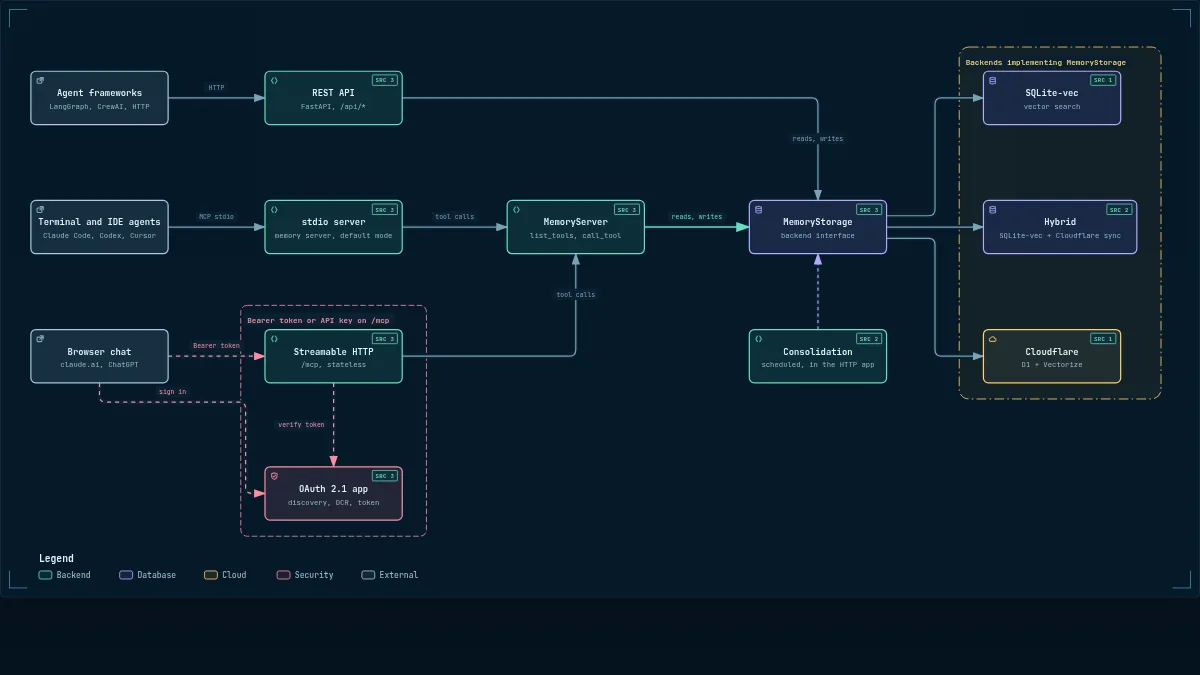
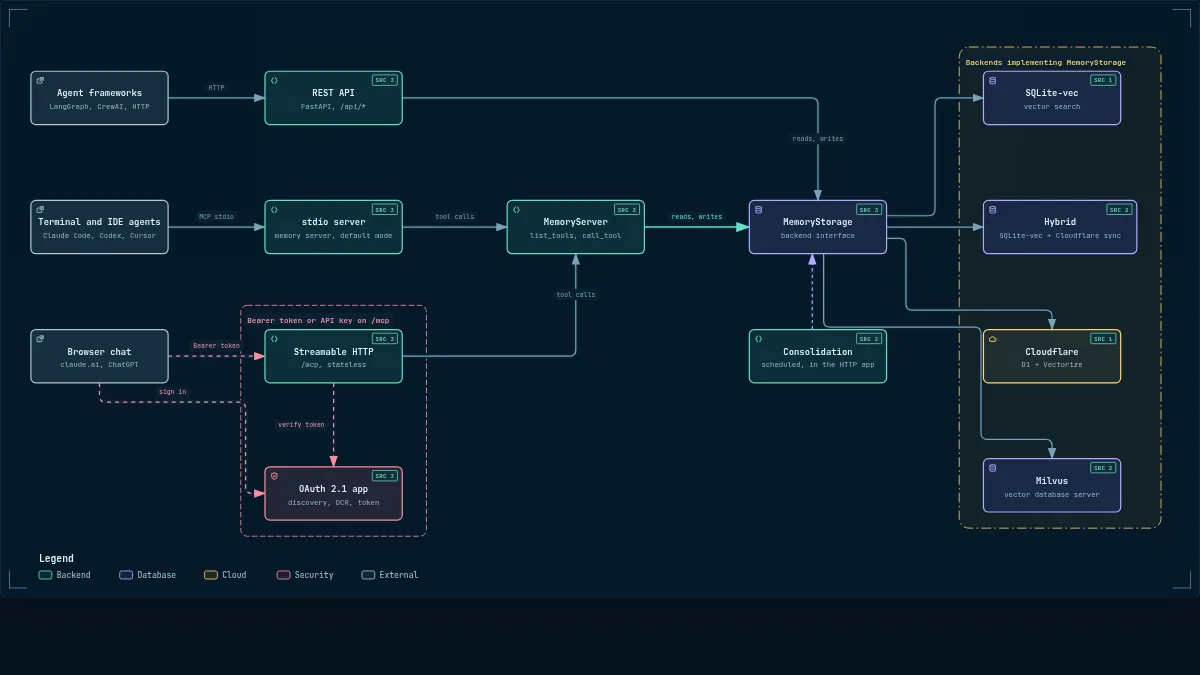
feat(site): bring the architecture diagram up to the current code and add Milvus
The diagram was pinned to 48d7d7f5 (2026-10-11). Its source links now point at
f53e3c74: nineteen ranges moved with the code, five were re-traced by hand
(POST /memories, run_streamable_http, the /mcp auth check, the OAuth sub-app and
the tool dispatch, which moved into helpers). Milvus, already a MemoryStorage
backend selected by the factory and named in the Storage card, gets its own box.
The landing page thumbnail is regenerated.

diff --git a/site/architecture/index.html b/site/architecture/index.html
@@ -4982,7 +4982,7 @@ OTHER DEALINGS IN THE FONT SOFTWARE.
       </div>
     </div>
 
-    <script id="archify-source-evidence-data" type="application/json">{"schemaVersion":1,"verified":true,"repository":{"url":"https://github.com/doobidoo/mcp-memory-service","revision":"48d7d7f595bc28834b2fc096aa2c8f4895ebca89","shortRevision":"48d7d7f","label":"doobidoo/mcp-memory-service","href":"https://github.com/doobidoo/mcp-memory-service/tree/48d7d7f595bc28834b2fc096aa2c8f4895ebca89"},"referenceCount":24,"nodes":{"rest":[{"path":"src/mcp_memory_service/web/app.py","line":356,"endLine":360,"label":"API routers","href":"https://github.com/doobidoo/mcp-memory-service/blob/48d7d7f595bc28834b2fc096aa2c8f4895ebca89/src/mcp_memory_service/web/app.py#L356-L360"},{"path":"src/mcp_memory_service/web/api/memories.py","line":142,"endLine":147,"label":"POST /memories","href":"https://github.com/doobidoo/mcp-memory-service/blob/48d7d7f595bc28834b2fc096aa2c8f4895ebca89/src/mcp_memory_service/web/api/memories.py#L142-L147"},{"path":"src/mcp_memory_service/web/oauth/middleware.py","line":449,"endLine":460,"label":"access checks","href":"https://github.com/doobidoo/mcp-memory-service/blob/48d7d7f595bc28834b2fc096aa2c8f4895ebca89/src/mcp_memory_service/web/oauth/middleware.py#L449-L460"}],"stdio":[{"path":"src/mcp_memory_service/utils/startup_orchestrator.py","line":296,"endLine":298,"label":"run_stdio","href":"https://github.com/doobidoo/mcp-memory-service/blob/48d7d7f595bc28834b2fc096aa2c8f4895ebca89/src/mcp_memory_service/utils/startup_orchestrator.py#L296-L298"},{"path":"src/mcp_memory_service/server_impl.py","line":3068,"endLine":3079,"label":"mode switch","href":"https://github.com/doobidoo/mcp-memory-service/blob/48d7d7f595bc28834b2fc096aa2c8f4895ebca89/src/mcp_memory_service/server_impl.py#L3068-L3079"},{"path":"pyproject.toml","line":157,"endLine":160,"label":"entry points","href":"https://github.com/doobidoo/mcp-memory-service/blob/48d7d7f595bc28834b2fc096aa2c8f4895ebca89/pyproject.toml#L157-L160"}],"mcp-http":[{"path":"src/mcp_memory_service/utils/startup_orchestrator.py","line":416,"endLine":440,"label":"run_streamable_http","href":"https://github.com/doobidoo/mcp-memory-service/blob/48d7d7f595bc28834b2fc096aa2c8f4895ebca89/src/mcp_memory_service/utils/startup_orchestrator.py#L416-L440"},{"path":"src/mcp_memory_service/utils/startup_orchestrator.py","line":523,"endLine":540,"label":"auth on /mcp","href":"https://github.com/doobidoo/mcp-memory-service/blob/48d7d7f595bc28834b2fc096aa2c8f4895ebca89/src/mcp_memory_service/utils/startup_orchestrator.py#L523-L540"},{"path":"src/mcp_memory_service/server_impl.py","line":1458,"endLine":1484,"label":"local_only_tools","href":"https://github.com/doobidoo/mcp-memory-service/blob/48d7d7f595bc28834b2fc096aa2c8f4895ebca89/src/mcp_memory_service/server_impl.py#L1458-L1484"}],"oauth":[{"path":"src/mcp_memory_service/utils/startup_orchestrator.py","line":444,"endLine":452,"label":"OAuth sub-app","href":"https://github.com/doobidoo/mcp-memory-service/blob/48d7d7f595bc28834b2fc096aa2c8f4895ebca89/src/mcp_memory_service/utils/startup_orchestrator.py#L444-L452"},{"path":"src/mcp_memory_service/web/oauth/authorization.py","line":343,"endLine":343,"label":"/authorize","href":"https://github.com/doobidoo/mcp-memory-service/blob/48d7d7f595bc28834b2fc096aa2c8f4895ebca89/src/mcp_memory_service/web/oauth/authorization.py#L343"},{"path":"src/mcp_memory_service/web/oauth/authorization.py","line":920,"endLine":920,"label":"/token","href":"https://github.com/doobidoo/mcp-memory-service/blob/48d7d7f595bc28834b2fc096aa2c8f4895ebca89/src/mcp_memory_service/web/oauth/authorization.py#L920"}],"core":[{"path":"src/mcp_memory_service/server_impl.py","line":243,"endLine":243,"label":"MemoryServer","href":"https://github.com/doobidoo/mcp-memory-service/blob/48d7d7f595bc28834b2fc096aa2c8f4895ebca89/src/mcp_memory_service/server_impl.py#L243"},{"path":"src/mcp_memory_service/server_impl.py","line":1486,"endLine":1520,"label":"tool dispatch","href":"https://github.com/doobidoo/mcp-memory-service/blob/48d7d7f595bc28834b2fc096aa2c8f4895ebca89/src/mcp_memory_service/server_impl.py#L1486-L1520"},{"path":"src/mcp_memory_service/tools/routing.py","line":69,"endLine":80,"label":"routing table","href":"https://github.com/doobidoo/mcp-memory-service/blob/48d7d7f595bc28834b2fc096aa2c8f4895ebca89/src/mcp_memory_service/tools/routing.py#L69-L80"}],"storage-api":[{"path":"src/mcp_memory_service/storage/base.py","line":40,"endLine":40,"label":"MemoryStorage","href":"https://github.com/doobidoo/mcp-memory-service/blob/48d7d7f595bc28834b2fc096aa2c8f4895ebca89/src/mcp_memory_service/storage/base.py#L40"},{"path":"src/mcp_memory_service/storage/factory.py","line":55,"endLine":75,"label":"backend factory","href":"https://github.com/doobidoo/mcp-memory-service/blob/48d7d7f595bc28834b2fc096aa2c8f4895ebca89/src/mcp_memory_service/storage/factory.py#L55-L75"},{"path":"src/mcp_memory_service/web/dependencies.py","line":38,"endLine":42,"label":"get_storage","href":"https://github.com/doobidoo/mcp-memory-service/blob/48d7d7f595bc28834b2fc096aa2c8f4895ebca89/src/mcp_memory_service/web/dependencies.py#L38-L42"}],"consolidation":[{"path":"src/mcp_memory_service/web/app.py","line":190,"endLine":200,"label":"scheduler setup","href":"https://github.com/doobidoo/mcp-memory-service/blob/48d7d7f595bc28834b2fc096aa2c8f4895ebca89/src/mcp_memory_service/web/app.py#L190-L200"},{"path":"src/mcp_memory_service/consolidation/scheduler.py","line":62,"endLine":62,"label":"ConsolidationScheduler","href":"https://github.com/doobidoo/mcp-memory-service/blob/48d7d7f595bc28834b2fc096aa2c8f4895ebca89/src/mcp_memory_service/consolidation/scheduler.py#L62"}],"sqlite":[{"path":"src/mcp_memory_service/storage/sqlite_vec.py","line":57,"endLine":57,"label":"SqliteVecMemoryStorage","href":"https://github.com/doobidoo/mcp-memory-service/blob/48d7d7f595bc28834b2fc096aa2c8f4895ebca89/src/mcp_memory_service/storage/sqlite_vec.py#L57"}],"hybrid":[{"path":"src/mcp_memory_service/storage/hybrid.py","line":1031,"endLine":1040,"label":"HybridMemoryStorage","href":"https://github.com/doobidoo/mcp-memory-service/blob/48d7d7f595bc28834b2fc096aa2c8f4895ebca89/src/mcp_memory_service/storage/hybrid.py#L1031-L1040"},{"path":"src/mcp_memory_service/storage/hybrid.py","line":248,"endLine":249,"label":"primary, secondary","href":"https://github.com/doobidoo/mcp-memory-service/blob/48d7d7f595bc28834b2fc096aa2c8f4895ebca89/src/mcp_memory_service/storage/hybrid.py#L248-L249"}],"cloudflare":[{"path":"src/mcp_memory_service/storage/cloudflare.py","line":163,"endLine":163,"label":"CloudflareStorage","href":"https://github.com/doobidoo/mcp-memory-service/blob/48d7d7f595bc28834b2fc096aa2c8f4895ebca89/src/mcp_memory_service/storage/cloudflare.py#L163"}]}}</script>
+    <script id="archify-source-evidence-data" type="application/json">{"schemaVersion":1,"verified":true,"repository":{"url":"https://github.com/doobidoo/mcp-memory-service","revision":"f53e3c7483d41674b950960cc8907c34b7717668","shortRevision":"f53e3c7","label":"doobidoo/mcp-memory-service","href":"https://github.com/doobidoo/mcp-memory-service/tree/f53e3c7483d41674b950960cc8907c34b7717668"},"referenceCount":26,"nodes":{"rest":[{"path":"src/mcp_memory_service/web/app.py","line":403,"endLine":407,"label":"API routers","href":"https://github.com/doobidoo/mcp-memory-service/blob/f53e3c7483d41674b950960cc8907c34b7717668/src/mcp_memory_service/web/app.py#L403-L407"},{"path":"src/mcp_memory_service/web/api/memories.py","line":219,"endLine":224,"label":"POST /memories","href":"https://github.com/doobidoo/mcp-memory-service/blob/f53e3c7483d41674b950960cc8907c34b7717668/src/mcp_memory_service/web/api/memories.py#L219-L224"},{"path":"src/mcp_memory_service/web/oauth/middleware.py","line":624,"endLine":635,"label":"access checks","href":"https://github.com/doobidoo/mcp-memory-service/blob/f53e3c7483d41674b950960cc8907c34b7717668/src/mcp_memory_service/web/oauth/middleware.py#L624-L635"}],"stdio":[{"path":"src/mcp_memory_service/utils/startup_orchestrator.py","line":475,"endLine":477,"label":"run_stdio","href":"https://github.com/doobidoo/mcp-memory-service/blob/f53e3c7483d41674b950960cc8907c34b7717668/src/mcp_memory_service/utils/startup_orchestrator.py#L475-L477"},{"path":"src/mcp_memory_service/server_impl.py","line":3360,"endLine":3371,"label":"mode switch","href":"https://github.com/doobidoo/mcp-memory-service/blob/f53e3c7483d41674b950960cc8907c34b7717668/src/mcp_memory_service/server_impl.py#L3360-L3371"},{"path":"pyproject.toml","line":162,"endLine":165,"label":"entry points","href":"https://github.com/doobidoo/mcp-memory-service/blob/f53e3c7483d41674b950960cc8907c34b7717668/pyproject.toml#L162-L165"}],"mcp-http":[{"path":"src/mcp_memory_service/utils/startup_orchestrator.py","line":589,"endLine":627,"label":"run_streamable_http","href":"https://github.com/doobidoo/mcp-memory-service/blob/f53e3c7483d41674b950960cc8907c34b7717668/src/mcp_memory_service/utils/startup_orchestrator.py#L589-L627"},{"path":"src/mcp_memory_service/utils/startup_orchestrator.py","line":186,"endLine":196,"label":"auth on /mcp","href":"https://github.com/doobidoo/mcp-memory-service/blob/f53e3c7483d41674b950960cc8907c34b7717668/src/mcp_memory_service/utils/startup_orchestrator.py#L186-L196"},{"path":"src/mcp_memory_service/server_impl.py","line":1502,"endLine":1528,"label":"local_only_tools","href":"https://github.com/doobidoo/mcp-memory-service/blob/f53e3c7483d41674b950960cc8907c34b7717668/src/mcp_memory_service/server_impl.py#L1502-L1528"}],"oauth":[{"path":"src/mcp_memory_service/utils/startup_orchestrator.py","line":212,"endLine":249,"label":"OAuth sub-app","href":"https://github.com/doobidoo/mcp-memory-service/blob/f53e3c7483d41674b950960cc8907c34b7717668/src/mcp_memory_service/utils/startup_orchestrator.py#L212-L249"},{"path":"src/mcp_memory_service/web/oauth/authorization.py","line":340,"endLine":340,"label":"/authorize","href":"https://github.com/doobidoo/mcp-memory-service/blob/f53e3c7483d41674b950960cc8907c34b7717668/src/mcp_memory_service/web/oauth/authorization.py#L340"},{"path":"src/mcp_memory_service/web/oauth/authorization.py","line":1015,"endLine":1015,"label":"/token","href":"https://github.com/doobidoo/mcp-memory-service/blob/f53e3c7483d41674b950960cc8907c34b7717668/src/mcp_memory_service/web/oauth/authorization.py#L1015"}],"core":[{"path":"src/mcp_memory_service/server_impl.py","line":246,"endLine":246,"label":"MemoryServer","href":"https://github.com/doobidoo/mcp-memory-service/blob/f53e3c7483d41674b950960cc8907c34b7717668/src/mcp_memory_service/server_impl.py#L246"},{"path":"src/mcp_memory_service/server_impl.py","line":1798,"endLine":1800,"label":"call_tool dispatch","href":"https://github.com/doobidoo/mcp-memory-service/blob/f53e3c7483d41674b950960cc8907c34b7717668/src/mcp_memory_service/server_impl.py#L1798-L1800"},{"path":"src/mcp_memory_service/tools/routing.py","line":69,"endLine":80,"label":"routing table","href":"https://github.com/doobidoo/mcp-memory-service/blob/f53e3c7483d41674b950960cc8907c34b7717668/src/mcp_memory_service/tools/routing.py#L69-L80"}],"storage-api":[{"path":"src/mcp_memory_service/storage/base.py","line":116,"endLine":116,"label":"MemoryStorage","href":"https://github.com/doobidoo/mcp-memory-service/blob/f53e3c7483d41674b950960cc8907c34b7717668/src/mcp_memory_service/storage/base.py#L116"},{"path":"src/mcp_memory_service/storage/factory.py","line":55,"endLine":75,"label":"backend factory","href":"https://github.com/doobidoo/mcp-memory-service/blob/f53e3c7483d41674b950960cc8907c34b7717668/src/mcp_memory_service/storage/factory.py#L55-L75"},{"path":"src/mcp_memory_service/web/dependencies.py","line":38,"endLine":42,"label":"get_storage","href":"https://github.com/doobidoo/mcp-memory-service/blob/f53e3c7483d41674b950960cc8907c34b7717668/src/mcp_memory_service/web/dependencies.py#L38-L42"}],"consolidation":[{"path":"src/mcp_memory_service/web/app.py","line":217,"endLine":227,"label":"scheduler setup","href":"https://github.com/doobidoo/mcp-memory-service/blob/f53e3c7483d41674b950960cc8907c34b7717668/src/mcp_memory_service/web/app.py#L217-L227"},{"path":"src/mcp_memory_service/consolidation/scheduler.py","line":135,"endLine":135,"label":"ConsolidationScheduler","href":"https://github.com/doobidoo/mcp-memory-service/blob/f53e3c7483d41674b950960cc8907c34b7717668/src/mcp_memory_service/consolidation/scheduler.py#L135"}],"sqlite":[{"path":"src/mcp_memory_service/storage/sqlite_vec.py","line":75,"endLine":75,"label":"SqliteVecMemoryStorage","href":"https://github.com/doobidoo/mcp-memory-service/blob/f53e3c7483d41674b950960cc8907c34b7717668/src/mcp_memory_service/storage/sqlite_vec.py#L75"}],"hybrid":[{"path":"src/mcp_memory_service/storage/hybrid.py","line":1553,"endLine":1562,"label":"HybridMemoryStorage","href":"https://github.com/doobidoo/mcp-memory-service/blob/f53e3c7483d41674b950960cc8907c34b7717668/src/mcp_memory_service/storage/hybrid.py#L1553-L1562"},{"path":"src/mcp_memory_service/storage/hybrid.py","line":485,"endLine":486,"label":"primary, secondary","href":"https://github.com/doobidoo/mcp-memory-service/blob/f53e3c7483d41674b950960cc8907c34b7717668/src/mcp_memory_service/storage/hybrid.py#L485-L486"}],"cloudflare":[{"path":"src/mcp_memory_service/storage/cloudflare.py","line":199,"endLine":199,"label":"CloudflareStorage","href":"https://github.com/doobidoo/mcp-memory-service/blob/f53e3c7483d41674b950960cc8907c34b7717668/src/mcp_memory_service/storage/cloudflare.py#L199"}],"milvus":[{"path":"src/mcp_memory_service/storage/milvus.py","line":184,"endLine":184,"label":"MilvusMemoryStorage","href":"https://github.com/doobidoo/mcp-memory-service/blob/f53e3c7483d41674b950960cc8907c34b7717668/src/mcp_memory_service/storage/milvus.py#L184"},{"path":"src/mcp_memory_service/storage/factory.py","line":71,"endLine":74,"label":"backend = milvus","href":"https://github.com/doobidoo/mcp-memory-service/blob/f53e3c7483d41674b950960cc8907c34b7717668/src/mcp_memory_service/storage/factory.py#L71-L74"}]}}</script>
     <script id="archify-i18n-data" type="application/json">{"locale":"en","messages":{"viewer.kind.frontend":"Frontend","viewer.kind.backend":"Backend","viewer.kind.database":"Database","viewer.kind.cloud":"Cloud","viewer.kind.security":"Security","viewer.kind.messagebus":"Message bus","viewer.kind.external":"External","viewer.kind.neutral":"Neutral","viewer.kind.node":"Node","viewer.kind.start":"Start","viewer.kind.active":"Active","viewer.kind.waiting":"Waiting","viewer.kind.decision":"Decision","viewer.kind.success":"Success","viewer.kind.failure":"Failure","viewer.toolbar.actions":"Diagram actions","viewer.theme.toggle.title":"Toggle theme (T)","viewer.theme.toggle":"Toggle color theme","viewer.theme.dark":"Dark","viewer.theme.light":"Light","viewer.preset.choose.title":"Choose visual style (S cycles)","viewer.preset.choose":"Choose visual style","viewer.preset.style":"Style","viewer.preset.menu":"Visual style","viewer.preset.identity":"Visual identity","viewer.preset.cycles":"to cycle","viewer.preset.classic":"Classic","viewer.preset.classic.short":"Classic","viewer.preset.classic.hint":"Stable technical default","viewer.preset.flow":"Signal Flow","viewer.preset.flow.short":"Flow","viewer.preset.flow.hint":"Motion-forward presentation","viewer.preset.blueprint":"Blueprint","viewer.preset.blueprint.hint":"Engineering review","viewer.preset.editorial":"Editorial","viewer.preset.editorial.hint":"Publication and launch notes","viewer.preset.badge.signalFlow":"SIGNAL FLOW","viewer.preset.badge.blueprint":"BLUEPRINT / REV 01","viewer.preset.badge.editorial":"EDITORIAL / FIELD NOTE","viewer.preset.badge.editorialPlate":"ARCHIFY / PLATE 04","viewer.preset.current":"Visual style: {style}. Choose visual style","viewer.motion.live":"Live","viewer.motion.still":"Still","viewer.motion.pause":"Pause motion","viewer.motion.resume":"Resume motion","viewer.motion.reduced":"Motion paused by reduced-motion preference","viewer.motion.hidden":"Motion paused while this page is hidden","viewer.motion.yielding":"Pause motion; currently yielding to {owner}","viewer.motion.yielding.title":"Live preview enabled · yielding to {owner}","viewer.owner.route":"Route Probe","viewer.owner.lens":"Semantic Lens","viewer.owner.relationship":"Relationship Preview","viewer.owner.intent":"Intent Trace","viewer.owner.focus":"semantic focus","viewer.owner.legend":"legend preview","viewer.owner.reader":"reader interaction","viewer.present.enter":"Enter presentation stage","viewer.present.enter.title":"Presentation stage (F)","viewer.present.exit":"Exit presentation stage","viewer.present.exit.title":"Exit presentation stage (F or Escape)","viewer.present.present":"Present","viewer.present.exit.label":"Exit","viewer.export.button":"Export","viewer.export.button.title":"Export diagram (E)","viewer.export.diagram":"Export diagram","viewer.export.menu":"Export","viewer.export.subtitle":"Portable, clean outputs","viewer.export.share":"Share","viewer.export.shareCard":"Share Card","viewer.export.routeShareCard":"Route Share Card","viewer.export.reachShareCard":"Reach Share Card","viewer.export.copyDiagram":"Copy diagram","viewer.export.clipboardPng":"PNG to clipboard","viewer.export.raster":"Raster images","viewer.export.image":"Image","viewer.export.lossless":"Lossless image","viewer.export.compact":"Compact image","viewer.export.modern":"Modern image","viewer.export.vectorMotion":"Vector and motion","viewer.export.vectorMotion.heading":"Vector \u0026 motion","viewer.export.editable":"Editable vector","viewer.export.svg.auto":"SVG · Auto","viewer.export.svg.auto.hint":"Matches host theme","viewer.export.svg.light":"SVG · Light","viewer.export.svg.light.hint":"Always light","viewer.export.svg.dark":"SVG · Dark","viewer.export.svg.dark.hint":"Always dark","viewer.export.motion6s":"6s motion","viewer.export.unsupported":"Not supported by this browser","viewer.export.clipboardUnsupported":"Clipboard image write not supported by this browser","viewer.export.clipboardUnsupported.short":"Clipboard image write not supported in this browser.","viewer.export.motionUnavailable":"Motion capture unavailable in this browser","viewer.export.webmUnavailable":"WebM unavailable in this browser","viewer.export.failed":"Export failed: {message}","viewer.export.unknownVariant":"Unknown Share Card variant: {variant}","viewer.export.routeRequired":"Trace a route before exporting a Route Share Card","viewer.export.reachRequired":"Trace authored reach before exporting a Reach Share Card","viewer.export.unknown":"unknown","viewer.export.routeFailed":"Route Share Card export failed: {message}","viewer.export.reachFailed":"Reach Share Card export failed: {message}","viewer.export.copyFailed":"Copy failed: {message}","viewer.export.copiedPng":"Copied PNG to clipboard","viewer.export.downloadedRoute":"Downloaded Route Share Card","viewer.export.downloadedReach":"Downloaded Reach Share Card","viewer.export.downloadedWebm":"Downloaded WebM","viewer.export.recording":"Recording 6 seconds of motion…","viewer.export.card.routeSummary.one":"Path: {source} → {target} · {count} step","viewer.export.card.routeSummary.other":"Path: {source} → {target} · {count} steps","viewer.export.card.reachSummary":"Authored {direction} from {origin} · {nodes} · {links} · max {hops}","viewer.export.card.node.one":"{count} node","viewer.export.card.node.other":"{count} nodes","viewer.export.card.link.one":"{count} link","viewer.export.card.link.other":"{count} links","viewer.export.card.hop.one":"{count} hop","viewer.export.card.hop.other":"{count} hops","viewer.export.card.routeBadge":"ARCHIFY · ROUTE · {hops}","viewer.export.card.reachBadge":"ARCHIFY · {direction} REACH","viewer.export.direction.upstream":"Upstream","viewer.export.direction.downstream":"Downstream","viewer.export.error.canvasUnavailable":"Canvas unavailable for {label}","viewer.export.error.contextUnavailable":"2D canvas context unavailable for {label}","viewer.export.error.toBlobUnavailable":"canvas.toBlob unavailable for {label}","viewer.export.error.toBlobNull":"canvas.toBlob returned no data for {label}","viewer.export.error.variantsCombined":"Share Card variants cannot be combined","viewer.export.error.viewerState":"Share Card export could not remove temporary viewer state","viewer.export.error.routeState":"Route Card export could not preserve the resolved route safely","viewer.export.error.reachState":"Reach Card export could not preserve authored reach safely","viewer.export.error.webmRequirements":"WebM motion export requires a trace animation and browser MediaRecorder support","viewer.export.error.mediaRecorder":"MediaRecorder failed","viewer.export.error.emptyWebm":"MediaRecorder produced an empty WebM","viewer.export.error.webmBackground":"SVG background could not be loaded for WebM export","viewer.guide.title":"Explore this system","viewer.focus.selectedNodes":"{count} selected nodes","viewer.guide.eyebrow":"Diagram guide","viewer.guide.close":"Close diagram guide","viewer.guide.inspecting":"Inspecting compiled semantics","viewer.guide.actions":"Diagram exploration actions","viewer.guide.find":"Find any node","viewer.guide.find.hint":"Search labels, responsibilities, kinds, and stable IDs.","viewer.guide.route":"Trace a route","viewer.guide.route.aria":"Trace a directed route","viewer.guide.route.hint":"Ask how two semantic nodes connect in authored direction.","viewer.guide.map":"See the whole system","viewer.guide.map.hint":"Open Semantic Radar with a live viewport and stable nodes.","viewer.guide.lens":"Compare semantic kinds","viewer.guide.lens.hint":"Count roles, reveal their traffic, and compare direct authored links.","viewer.guide.present":"Enter Presentation Stage","viewer.guide.present.hint":"Give the live diagram the viewport without changing export.","viewer.guide.shortcuts":"Additional keyboard shortcuts","viewer.guide.shortcut.export":"Export","viewer.guide.shortcut.theme":"Theme","viewer.guide.shortcut.style":"Style","viewer.guide.shortcut.reset":"Reset","viewer.guide.shortcut.zoomIn":"Zoom in","viewer.guide.shortcut.zoomOut":"Zoom out","viewer.guide.shortcut.close":"Close","viewer.guide.facts":"{nodes} · {relationships}","viewer.guide.fact.node.one":"{count} semantic node","viewer.guide.fact.node.other":"{count} semantic nodes","viewer.guide.fact.relationship.one":"{count} relationship","viewer.guide.fact.relationship.other":"{count} relationships","viewer.guide.open":"Open diagram guide","viewer.finder.title":"Find a node","viewer.finder.close":"Close node finder","viewer.finder.placeholder":"Search labels or IDs","viewer.finder.search":"Search diagram nodes","viewer.finder.results":"Diagram nodes","viewer.finder.empty":"No matching nodes","viewer.finder.result.focus":"Focus {label}","viewer.finder.result.routeStart":"Choose {label} as route start","viewer.finder.result.routeTarget":"Choose {label} as route destination, {links}","viewer.finder.status.empty":"No matching nodes","viewer.finder.status.count.one":"{count} matching node","viewer.finder.status.count.other":"{count} matching nodes","viewer.finder.noun.nodes":"nodes","viewer.finder.link.one":"{count} link","viewer.finder.link.other":"{count} links","viewer.finder.result.focus.one":"Focus {label}, {count} related connection","viewer.finder.result.focus.other":"Focus {label}, {count} related connections","viewer.finder.status.filtered":"{visible} of {available} {noun}","viewer.finder.status.all":"{available} {noun}","viewer.passport.eyebrow":"Semantic passport","viewer.passport.metadata":"Node metadata","viewer.passport.evidence":"Verified source evidence","viewer.passport.verified":"Verified source","viewer.passport.verificationScope":"Verified against local Git at the pinned revision. Remote access has not been checked.","viewer.passport.reach":"Authored reach","viewer.passport.reach.trace":"Trace authored reachability","viewer.passport.upstream":"Upstream","viewer.passport.downstream":"Downstream","viewer.passport.upstream.trace":"Trace upstream authored reachability","viewer.passport.downstream.trace":"Trace downstream authored reachability","viewer.passport.close":"Close semantic passport","viewer.passport.move":"Move semantic passport. Drag, use arrow keys, or press Home to reset.","viewer.passport.copy":"Copy link","viewer.passport.copy.focus":"Copy link to focused node","viewer.passport.relations":"Relations","viewer.passport.relations.show":"Show connected relationships","viewer.passport.relations.hide":"Hide connected relationships","viewer.passport.relations.list":"Connected relationships","viewer.passport.copyRelation":"Copy relation","viewer.passport.copyNode":"Copy node","viewer.passport.copyPinned":"Copy link to pinned relationship","viewer.passport.copySource":"Copy link to source node","viewer.passport.copy.focused.success":"Focused node link copied","viewer.passport.copy.pinned.success":"Pinned relationship link copied","viewer.passport.copy.focused.failed":"Could not copy focused node link","viewer.passport.copy.pinned.failed":"Could not copy pinned relationship link","viewer.passport.relationship.none":"No connected relationships","viewer.passport.relationship.count.one":"{count} relation","viewer.passport.relationship.count.other":"{count} relations","viewer.passport.relationship.show.one":"Show {count} connected relationship","viewer.passport.relationship.show.other":"Show {count} connected relationships","viewer.passport.relationship.summary":"{out} outgoing · {in} incoming{loops}","viewer.passport.relationship.loops":" · {count} loop","viewer.passport.relationship.explorer":"Direct relationship explorer","viewer.passport.relationship.help":"Use arrow keys to explore relationships. Press Enter or Space to pin details; Escape clears.","viewer.passport.relationship.loopsBack":"loops back","viewer.passport.relationship.connectsTo":"connects to","viewer.passport.relationship.connectsFrom":"connects from","viewer.passport.relationship.pinned":"Pinned relationship · {from} → {to} · {label}","viewer.passport.relationship.inspect":"Inspect relationship {index} of {total}: {from} to {to}, {label}. Press Enter for details.","viewer.passport.relationship.group.out":"Outgoing","viewer.passport.relationship.group.in":"Incoming","viewer.passport.relationship.group.loop":"Self loops","viewer.passport.relationship.row":"{group}: {relationship}, {neighbor}","viewer.passport.relationship.direction.out":"OUT →","viewer.passport.relationship.direction.in":"← IN","viewer.passport.relationship.direction.loop":"LOOP","viewer.passport.sourceCount.one":"{count} verified source reference","viewer.passport.sourceCount.other":"{count} verified source references","viewer.passport.sourceMarker":"SRC","viewer.passport.beacon.one":"{count} verified source; focus this node to inspect","viewer.passport.beacon.other":"{count} verified sources; focus this node to inspect","viewer.passport.repository.open":"Open verified repository revision {revision}","viewer.passport.source.open":"Open verified source {path} at revision {revision}","viewer.passport.source.openLink":"Open ↗","viewer.passport.reach.upstream.one":"Trace {count} upstream authored node","viewer.passport.reach.upstream.other":"Trace {count} upstream authored nodes","viewer.passport.reach.downstream.one":"Trace {count} downstream authored node","viewer.passport.reach.downstream.other":"Trace {count} downstream authored nodes","viewer.passport.reach.noUpstream":"No upstream authored nodes","viewer.passport.reach.noDownstream":"No downstream authored nodes","viewer.passport.reach.status":"{direction} · {nodes} nodes · {links} links · max {hops} hops","viewer.route.eyebrow":"Path","viewer.route.start":"Click where the path starts","viewer.route.start.find":"Find start","viewer.route.start.find.aria":"Find a route start","viewer.route.copy":"Copy link","viewer.route.copy.aria":"Copy link to traced route","viewer.route.clear":"Clear","viewer.route.clear.aria":"Clear route probe","viewer.route.traced":"Path","viewer.route.pickTwo":"Click two nodes on the diagram","viewer.route.pickOne":"Click a node on the diagram","viewer.route.controls":"Route journey controls","viewer.route.previous":"Previous route position","viewer.route.play":"Play route journey","viewer.route.pause":"Pause route journey","viewer.route.replay":"Replay route journey","viewer.route.next":"Next route position","viewer.route.journey":"Journey","viewer.route.pause.label":"Pause","viewer.route.replay.label":"Replay","viewer.route.overview":"Overview","viewer.route.overview.aria":"Show complete route overview","viewer.route.instructions":"Click a start, then an end. Paths follow the arrows.","viewer.route.destination":"Where does the path from {label} end?","viewer.route.destination.find":"Find target","viewer.route.destination.find.aria":"Find a reachable route destination","viewer.route.differentDestination":"Choose a different destination","viewer.route.distinct":"Pick two different nodes.","viewer.route.unreachable":"Cannot reach {label} from here","viewer.route.unreachable.detail":"{target} cannot be reached from {source} along the arrows. Pick a highlighted node.","viewer.route.start.instructions":"Next, pick the end. Only nodes you can reach will light up.","viewer.route.copy.success":"Traced route link copied","viewer.route.copy.failed":"Could not copy traced route link","viewer.route.position":"Route position {index} of {total}: {label}","viewer.route.step":"Step {index} of {total} · {phase} · {label}","viewer.route.motionRequired":"Automatic journey requires Live motion","viewer.route.trigger.clear":"Clear traced route","viewer.route.overview.status":"{nodes} · {hops} · shortest path","viewer.route.overview.node.one":"{count} node","viewer.route.overview.node.other":"{count} nodes","viewer.route.overview.hop.one":"{count} step","viewer.route.overview.hop.other":"{count} steps","viewer.route.phase.playing":"Playing","viewer.route.phase.complete":"Complete","viewer.route.phase.inspecting":"Inspecting","viewer.route.destination.count.one":"{count} reachable node is highlighted. Click it.","viewer.route.destination.count.other":"{count} reachable nodes are highlighted. Click one.","viewer.route.noOutgoing":"No arrows lead out of this node. Clear it and pick another start.","viewer.route.result.title":"{source} to {target}","viewer.route.finder.source.title":"Choose route start","viewer.route.finder.source.placeholder":"Search route sources","viewer.route.finder.source.empty":"No matching route sources","viewer.route.finder.source.results":"Nodes that can start a route","viewer.route.finder.source.noun":"route sources","viewer.route.finder.source.badge":"start","viewer.route.finder.target.title":"Destination from {label}","viewer.route.finder.target.placeholder":"Search reachable destinations","viewer.route.finder.target.empty":"No matching reachable destinations","viewer.route.finder.target.results":"Reachable route destinations","viewer.route.finder.target.noun":"reachable destinations","viewer.route.hop.one":"{count} hop","viewer.route.hop.other":"{count} hops","viewer.lens.eyebrow":"Semantic lens","viewer.lens.title":"Compare system roles","viewer.lens.close":"Close semantic lens","viewer.lens.instruction":"Choose up to two semantic kinds. One reveals its real traffic; two compare only direct authored relationships.","viewer.lens.kinds":"Semantic kinds","viewer.lens.choose":"Choose a kind to inspect its nodes and touching relationships.","viewer.lens.copy":"Copy link to semantic lens","viewer.lens.clear":"Clear semantic lens","viewer.lens.open":"Open semantic lens","viewer.lens.openActive":"Open active semantic lens","viewer.lens.legend":"Semantic legend","viewer.lens.legend.inspect.one":"Inspect {label}, {count} node","viewer.lens.legend.inspect.other":"Inspect {label}, {count} nodes","viewer.lens.kind.count.one":"{label}, {count} node","viewer.lens.kind.count.other":"{label}, {count} nodes","viewer.lens.compare.one":"{first} → {second}: {forward} · {second} → {first}: {reverse} · {count} direct relationship","viewer.lens.compare.other":"{first} → {second}: {forward} · {second} → {first}: {reverse} · {count} direct relationships","viewer.lens.single":"{nodes} · {relationships} · connected peers remain visible","viewer.lens.node.one":"{count} {label} node","viewer.lens.node.other":"{count} {label} nodes","viewer.lens.relationship.one":"{count} touching relationship","viewer.lens.relationship.other":"{count} touching relationships","viewer.radar.title":"Semantic radar","viewer.radar.building":"Building overview","viewer.radar.openFull":"Open full semantic radar","viewer.radar.open":"Open radar","viewer.radar.close":"Close semantic radar","viewer.radar.surface":"Diagram overview. Click a node to focus it, or use arrow keys to pan.","viewer.radar.click":"Click node","viewer.radar.drag":"Drag to pan","viewer.radar.space":"Semantic radar needs more MAP space.","viewer.radar.nodes":"Semantic diagram radar nodes","viewer.radar.focus":"Focus {label} from Semantic Radar","viewer.radar.status":"{count} nodes · {viewport}","viewer.radar.fullMap":"{count} nodes · full map","viewer.radar.compacted":"Radar compacted to avoid covering the Semantic Passport or MAP controls.","viewer.radar.cancelWaiting":"Cancel semantic radar waiting for more MAP space","viewer.radar.needsSpace":"Semantic radar needs more visible MAP space","viewer.radar.viewport.full":"full map","viewer.radar.viewport.width":"{percent}% width","viewer.radar.viewport.scale":"{percent}% viewport","viewer.nav.controls":"Diagram view controls","viewer.nav.route":"Trace a directed route","viewer.nav.route.title":"Trace route (R)","viewer.nav.route.short":"PATH","viewer.nav.radar":"Open semantic radar","viewer.nav.radar.title":"Semantic radar (M)","viewer.nav.radar.short":"MAP","viewer.nav.lens":"Open semantic lens","viewer.nav.lens.title":"Semantic lens (L)","viewer.nav.lens.short":"LENS","viewer.nav.find":"Find a node","viewer.nav.find.title":"Find a node (/)","viewer.outline.title":"Node index","viewer.rail.show":"Notes \u0026 index","viewer.rail.controls":"Side panel","viewer.rail.collapse":"Collapse side panel","viewer.rail.bottom":"Move panel below the diagram","viewer.rail.right":"Move panel beside the diagram","viewer.nav.guide":"Open diagram guide","viewer.nav.guide.title":"Diagram guide (?)","viewer.nav.zoomOut":"Zoom out","viewer.nav.zoomOut.title":"Zoom out (-)","viewer.nav.reset":"Reset diagram view","viewer.nav.reset.title":"Reset view (0)","viewer.nav.read":"READ","viewer.nav.zoomIn":"Zoom in","viewer.nav.zoomIn.title":"Zoom in (+)","viewer.nav.camera":"{hint}. Reset diagram view","viewer.nav.camera.title":"{semantic}{hint} · reset view (0)","viewer.nav.camera.semantic":"Semantic camera active · ","viewer.nav.level.map":"MAP","viewer.nav.level.read":"READ","viewer.nav.level.full":"FULL","viewer.nav.level.auto":"AUTO","viewer.nav.detail.map":"Zoom in to reveal relationship labels and node context","viewer.nav.detail.read":"Zoom in again to reveal tags and annotations","viewer.nav.detail.full":"Full diagram detail","viewer.intent.summary":"{label}. {out} outgoing, {in} incoming{loops}. {total} connections. Press Enter for details.","viewer.intent.loops":", {count} self loop","viewer.common.copied":"Copied","viewer.common.copyFailed":"Copy failed","viewer.common.copyLink":"Copy link","viewer.common.clear":"Clear","viewer.common.close":"Close"}}</script>
     <!-- Main Diagram -->
     <div class="diagram-container" data-detail-level="read"
@@ -5015,7 +5015,7 @@ OTHER DEALINGS IN THE FONT SOFTWARE.
         <!-- Boundaries (behind everything) -->
         <rect data-graph-role="structural-frame" data-composition-frame-kind="security-group" data-composition-frame-id="0" data-composition-frame-label="Bearer token or API key on /mcp" x="290" y="370" width="230" height="286" rx="8" class="c-security-group" stroke-width="1"/>
 
-        <rect data-graph-role="structural-frame" data-composition-frame-kind="region" data-composition-frame-id="1" data-composition-frame-label="Backends implementing MemoryStorage" x="1180" y="50" width="250" height="436" rx="12" class="c-region" stroke-width="1"/>
+        <rect data-graph-role="structural-frame" data-composition-frame-kind="region" data-composition-frame-id="1" data-composition-frame-label="Backends implementing MemoryStorage" x="1180" y="50" width="250" height="596" rx="12" class="c-region" stroke-width="1"/>
 
         <!-- Connection paths (before components for correct z-order) -->
         <g data-graph-role="automatic-crossover" style="--step:0">
@@ -5055,8 +5055,8 @@ OTHER DEALINGS IN THE FONT SOFTWARE.
           <path data-edge-from="rest" data-edge-to="storage-api" data-edge-label="reads, writes" data-edge-key="8" data-edge-id="rest-storage" data-composition-points="490,113;1005,113;1005,240" data-composition-crossover="halo" data-composition-independent="true" d="M 490 113 L 997 113 Q 1005 113 1005 121 L 1005 240" class="a-default" stroke-width="1.5" marker-end="url(#arrowhead)"/>
         </g>
         <g data-graph-role="automatic-crossover" style="--step:9">
-          <path data-graph-role="automatic-crossover-underlay" d="M 1005 400 L 1005 306" fill="none" stroke="var(--mask)" stroke-width="5.5" stroke-linecap="round" stroke-linejoin="round" pointer-events="none"/>
-          <path data-edge-from="consolidation" data-edge-to="storage-api" data-edge-key="9" data-edge-id="consolidation-storage" data-composition-points="1005,400;1005,306" data-composition-crossover="halo" data-composition-independent="true" d="M 1005 400 L 1005 306" class="a-dashed" stroke-width="1.5" marker-end="url(#arrowhead-dashed)"/>
+          <path data-graph-role="automatic-crossover-underlay" d="M 998 400 L 998 306" fill="none" stroke="var(--mask)" stroke-width="5.5" stroke-linecap="round" stroke-linejoin="round" pointer-events="none"/>
+          <path data-edge-from="consolidation" data-edge-to="storage-api" data-edge-key="9" data-edge-id="consolidation-storage" data-composition-points="998,400;998,306" data-composition-crossover="halo" data-composition-independent="true" d="M 998 400 L 998 306" class="a-dashed" stroke-width="1.5" marker-end="url(#arrowhead-dashed)"/>
         </g>
         <g data-graph-role="automatic-crossover" style="--step:10">
           <path data-graph-role="automatic-crossover-underlay" d="M 1090 259 L 1142 259 Q 1150 259 1150 251 L 1150 121 Q 1150 113 1158 113 L 1210 113" fill="none" stroke="var(--mask)" stroke-width="5.5" stroke-linecap="round" stroke-linejoin="round" pointer-events="none"/>
@@ -5067,8 +5067,12 @@ OTHER DEALINGS IN THE FONT SOFTWARE.
           <path data-edge-from="storage-api" data-edge-to="hybrid" data-edge-key="11" data-edge-id="storage-hybrid" data-composition-points="1090,273;1210,273" data-composition-crossover="halo" data-composition-independent="true" d="M 1090 273 L 1210 273" class="a-default" stroke-width="1.5" marker-end="url(#arrowhead)"/>
         </g>
         <g data-graph-role="automatic-crossover" style="--step:12">
-          <path data-graph-role="automatic-crossover-underlay" d="M 1090 287 L 1142 287 Q 1150 287 1150 295 L 1150 425 Q 1150 433 1158 433 L 1210 433" fill="none" stroke="var(--mask)" stroke-width="5.5" stroke-linecap="round" stroke-linejoin="round" pointer-events="none"/>
-          <path data-edge-from="storage-api" data-edge-to="cloudflare" data-edge-key="12" data-edge-id="storage-cloudflare" data-composition-points="1090,287;1150,287;1150,433;1210,433" data-composition-crossover="halo" data-composition-independent="true" d="M 1090 287 L 1142 287 Q 1150 287 1150 295 L 1150 425 Q 1150 433 1158 433 L 1210 433" class="a-default" stroke-width="1.5" marker-end="url(#arrowhead)"/>
+          <path data-graph-role="automatic-crossover-underlay" d="M 1090 287 L 1106 287 Q 1114 287 1114 295 L 1114 368 Q 1114 376 1122 376 L 1287 376 Q 1295 376 1295 384 L 1295 400" fill="none" stroke="var(--mask)" stroke-width="5.5" stroke-linecap="round" stroke-linejoin="round" pointer-events="none"/>
+          <path data-edge-from="storage-api" data-edge-to="cloudflare" data-edge-key="12" data-edge-id="storage-cloudflare" data-composition-points="1090,287;1114,287;1114,376;1295,376;1295,400" data-composition-crossover="halo" data-composition-independent="true" d="M 1090 287 L 1106 287 Q 1114 287 1114 295 L 1114 368 Q 1114 376 1122 376 L 1287 376 Q 1295 376 1295 384 L 1295 400" class="a-default" stroke-width="1.5" marker-end="url(#arrowhead)"/>
+        </g>
+        <g data-graph-role="automatic-crossover" style="--step:13">
+          <path data-graph-role="automatic-crossover-underlay" d="M 1012 306 L 1012 389 Q 1012 397 1020 397 L 1199 397 Q 1207 397 1207 405 L 1207 528 Q 1207 536 1215 536 L 1287 536 Q 1295 536 1295 544 L 1295 560" fill="none" stroke="var(--mask)" stroke-width="5.5" stroke-linecap="round" stroke-linejoin="round" pointer-events="none"/>
+          <path data-edge-from="storage-api" data-edge-to="milvus" data-edge-key="13" data-edge-id="storage-milvus" data-composition-points="1012,306;1012,397;1207,397;1207,536;1295,536;1295,560" data-composition-crossover="halo" data-composition-independent="true" d="M 1012 306 L 1012 389 Q 1012 397 1020 397 L 1199 397 Q 1207 397 1207 405 L 1207 528 Q 1207 536 1215 536 L 1287 536 Q 1295 536 1295 544 L 1295 560" class="a-default" stroke-width="1.5" marker-end="url(#arrowhead)"/>
         </g>
 
         <!-- Components -->
@@ -5223,6 +5227,18 @@ OTHER DEALINGS IN THE FONT SOFTWARE.
         <text data-detail="context" x="1295" y="447" class="t-muted" font-size="9" text-anchor="middle">D1 + Vectorize</text>
         </g>
 
+        <g id="node-milvus" data-node-id="milvus" data-node-label="Milvus" tabindex="0" role="button" aria-label="Focus Milvus, vector database server, Backends implementing MemoryStorage" aria-pressed="false" data-node-kind="database" data-node-sublabel="vector database server" data-node-context="Backends implementing MemoryStorage">
+          <title>Milvus · vector database server · Backends implementing MemoryStorage</title>
+          <rect x="1210" y="560" width="170" height="66" rx="6" class="c-mask"/>
+          <rect x="1210" y="560" width="170" height="66" rx="6" class="c-database" stroke-width="1.5"/>
+          <g aria-hidden="true" data-semantic-sigil="database" class="semantic-sigil s-database" transform="translate(1216 566) scale(0.6875)">
+            <ellipse cx="8" cy="4" rx="5" ry="2"/>
+            <path d="M3 4v8c0 1.1 2.2 2 5 2s5-.9 5-2V4M3 8c0 1.1 2.2 2 5 2s5-.9 5-2"/>
+          </g>
+          <text data-node-label="" data-detail-anchor="" x="1295" y="591" class="t-primary" font-size="11" font-weight="600" text-anchor="middle">Milvus</text>
+        <text data-detail="context" x="1295" y="607" class="t-muted" font-size="9" text-anchor="middle">vector database server</text>
+        </g>
+
         <!-- Connection labels -->
         <g data-detail="context" data-edge-from="agents-http" data-edge-to="rest" data-edge-label="HTTP" data-edge-key="0" data-edge-id="frameworks-rest">
           <rect x="245" y="93" width="30" height="14" rx="3" class="c-mask"/>
@@ -5260,6 +5276,7 @@ OTHER DEALINGS IN THE FONT SOFTWARE.
           <rect x="968.8" y="156.5" width="72.4" height="14" rx="3" class="c-mask"/>
           <text x="1005" y="166.5" class="t-edge-default" font-size="8" text-anchor="middle">reads, writes</text>
         </g>
+
 
 
 
